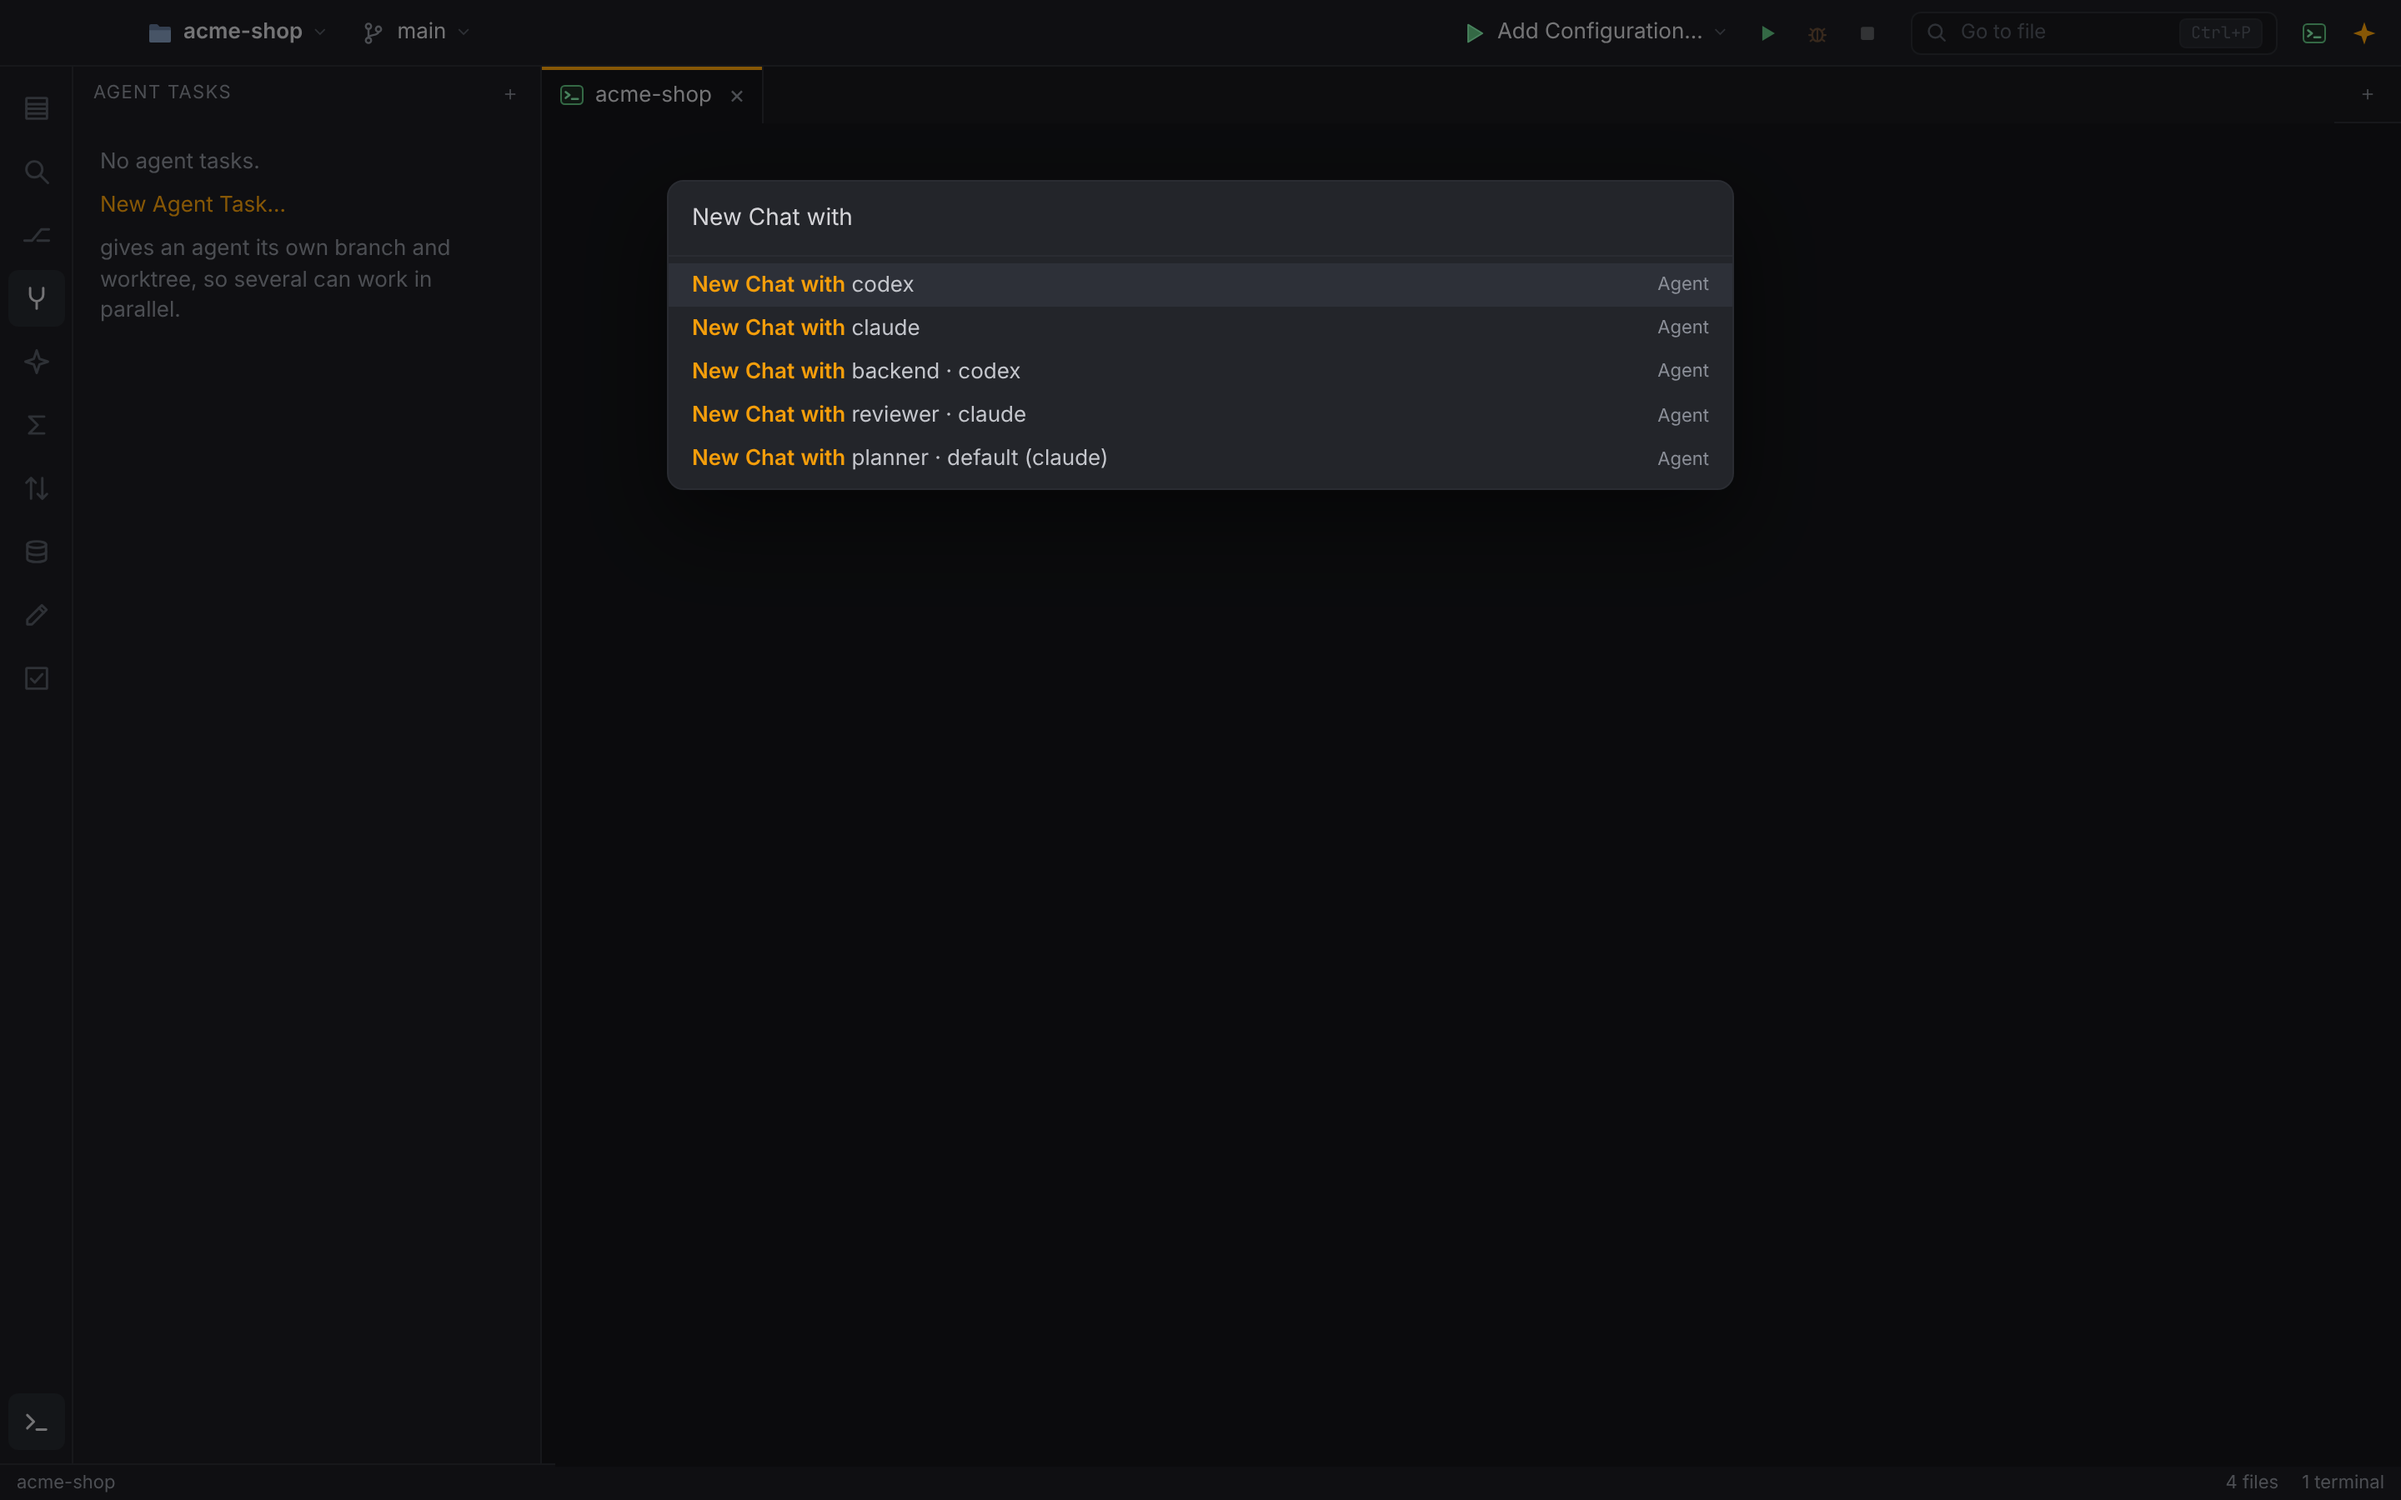
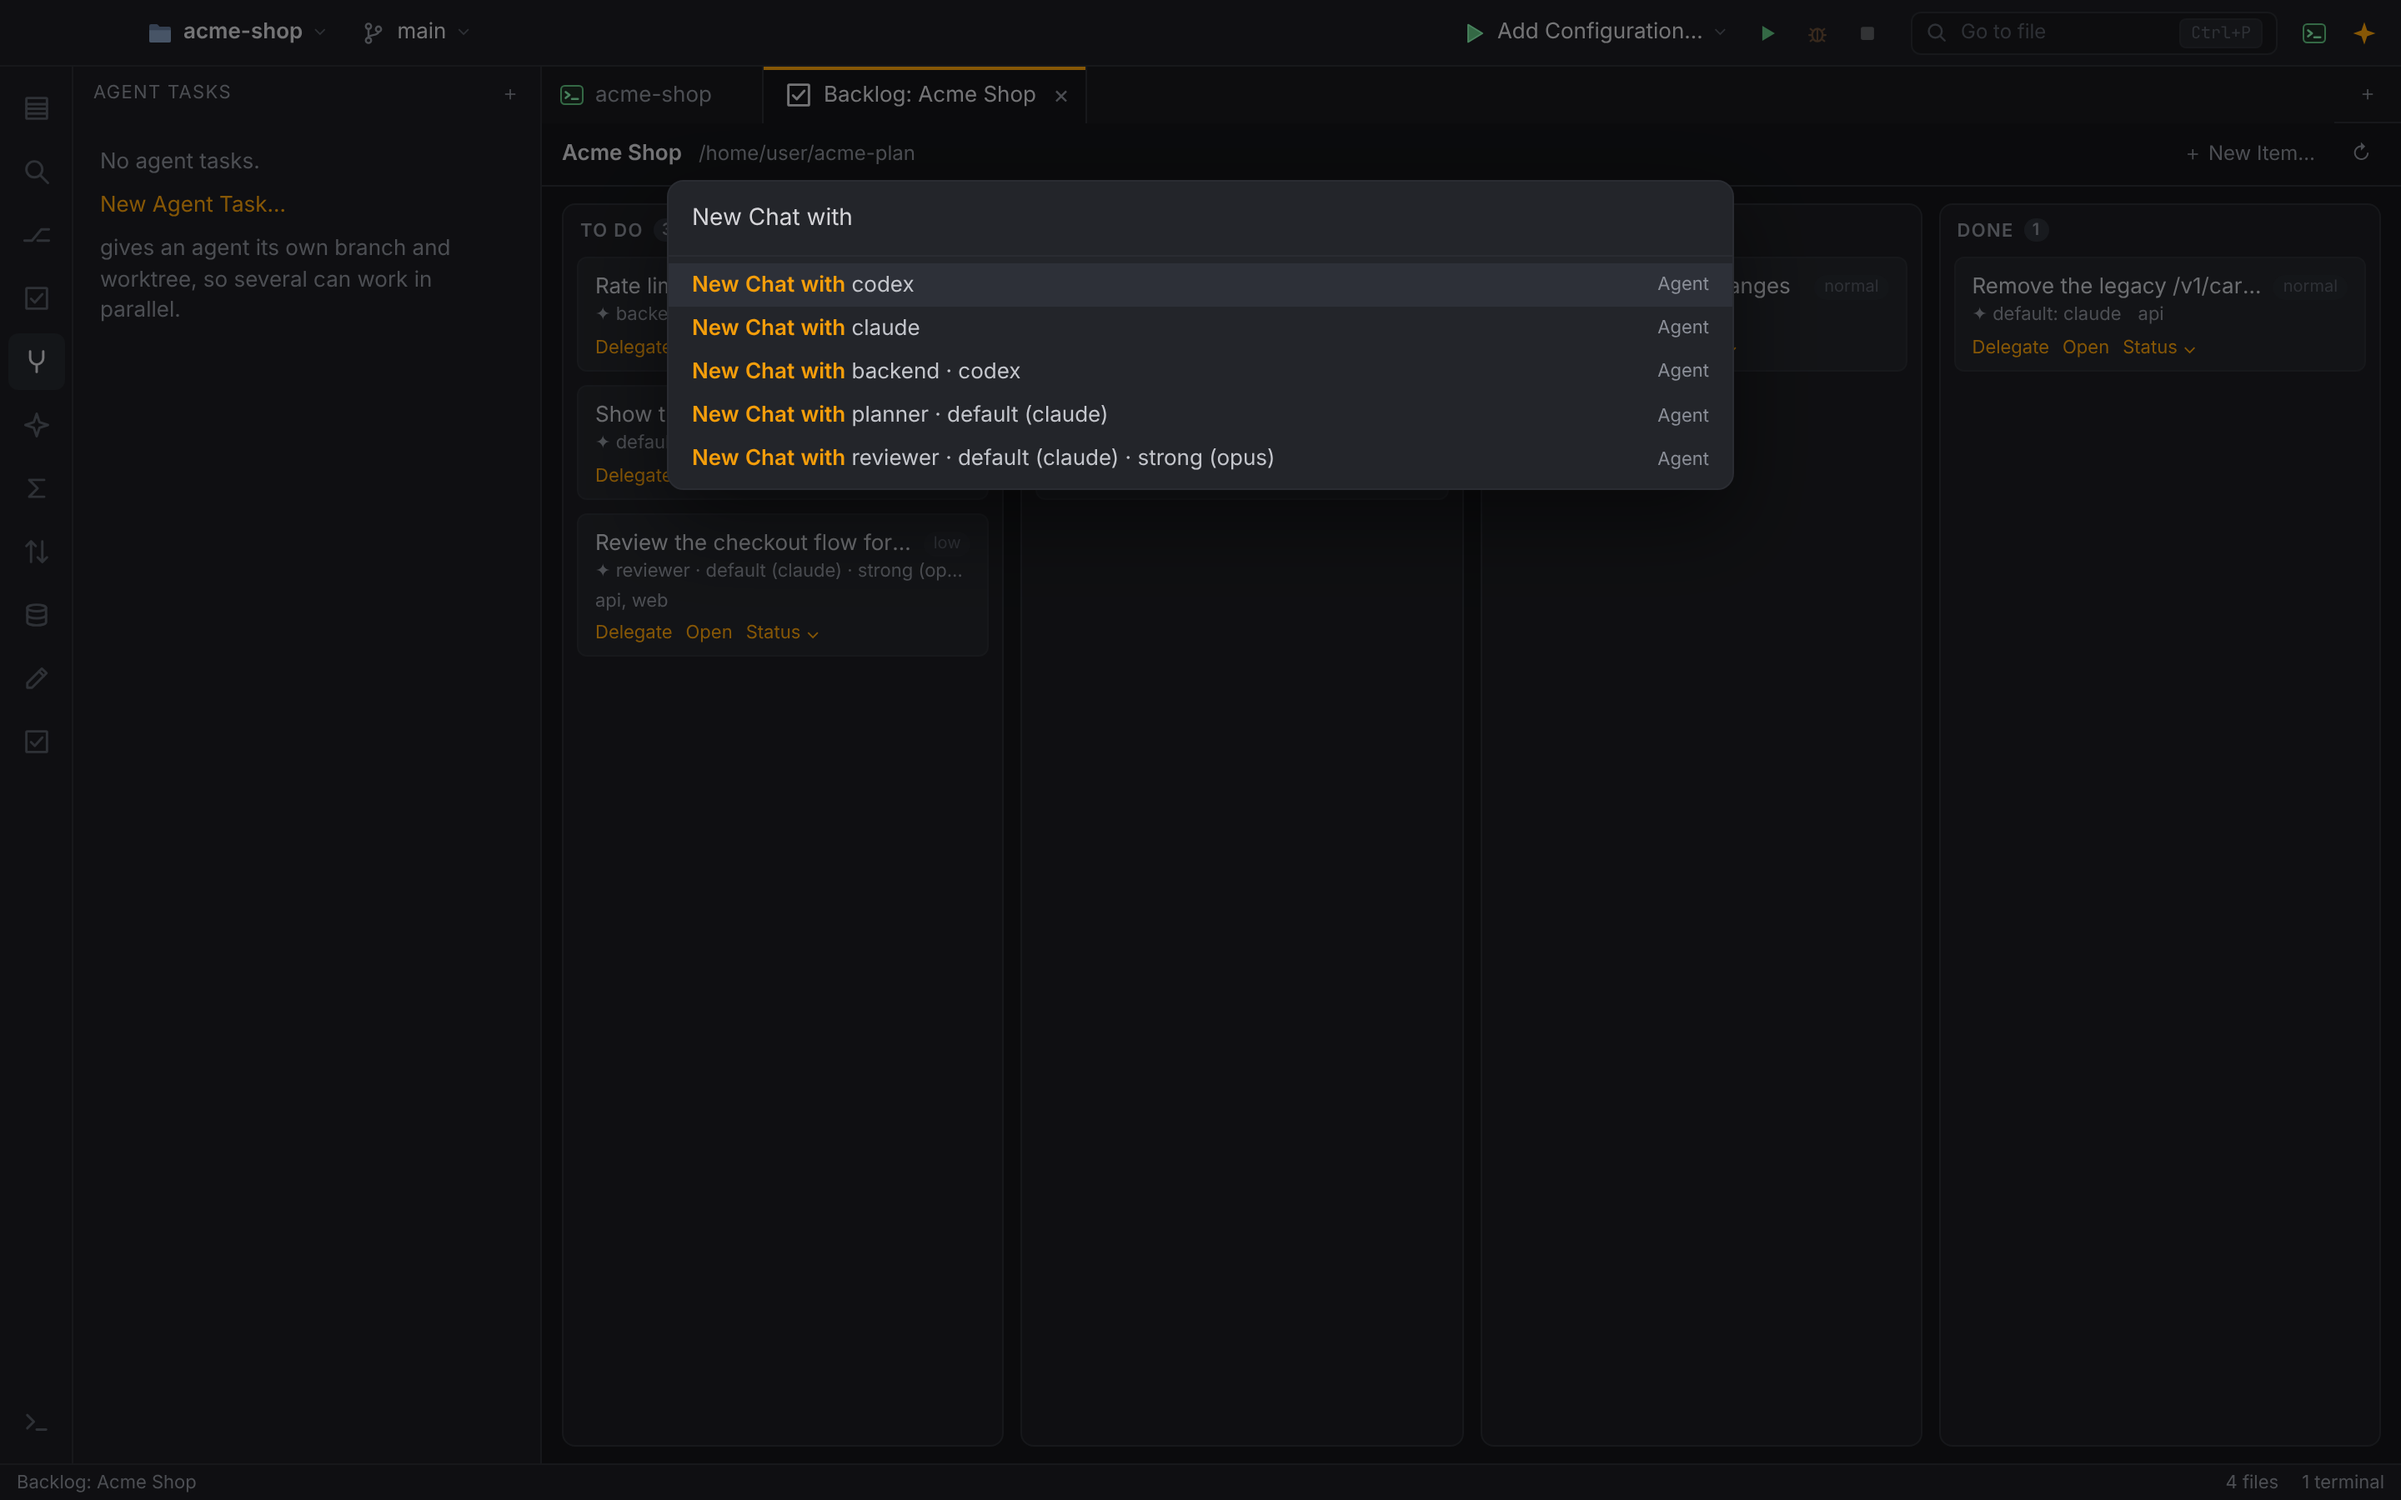
docs: screenshots of the backlog and the model tiers; refresh the defined agents ones
Claude-Session: https://claude.ai/code/session_01RDemkNgnazAvXXCCuUFomL

diff --git a/site/guides/backlog.md b/site/guides/backlog.md
@@ -2,6 +2,8 @@
 
 A backlog holds work that is planned but not started: a folder of items, for one or more repositories, that Flint shows as a list and as a board. **Delegate** turns an item into [agent tasks](ai-agents.md#agent-tasks-agents-in-parallel), one per repository the item names, run by the agent the item names, and the item's status follows them. This guide explains the folder and its files, how repositories are matched to your checkouts, what Delegate does and refuses, how the status moves, and what is shared with a team.
 
+![The Backlog panel with the repositories and the items by status, next to the board of the same backlog](../images/backlog.png)
+
 ## When to use it
 
 Use a backlog when you:

diff --git a/site/guides/ai-agents.md b/site/guides/ai-agents.md
@@ -111,6 +111,8 @@ The tier is resolved when a conversation starts, on the program it starts on, fr
 
 A tier can only become a model from your own settings or the defaults above, so a project's file can name a tier but can't choose what it means.
 
+![Settings ▸ Agents: the Fast, Balanced and Strong model fields of Claude Code with their defaults](../images/agents-tiers.png)
+
 ### Trust and names
 
 - Project definitions are not loaded at all in a folder in [Restricted Mode](restricted-mode.md): their text would steer an agent with words from a repository you haven't trusted. Settings ▸ Agents says how many files were ignored and where. They load once you trust the folder.
